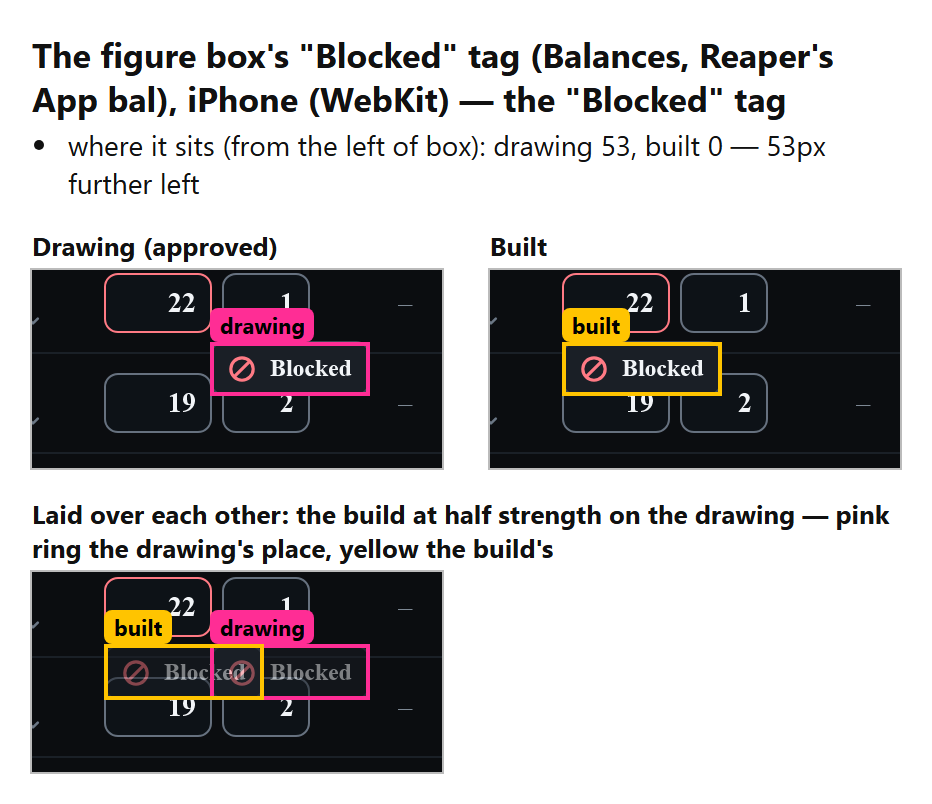
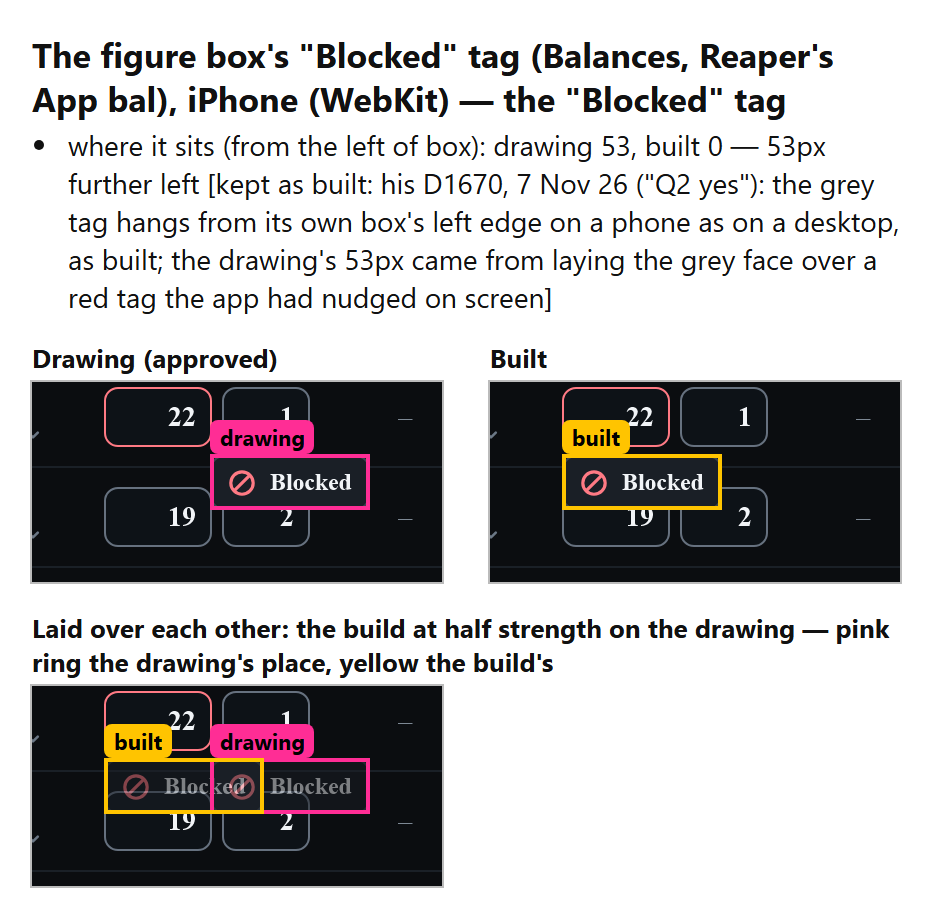
[NOTSAVED-REFUSAL-LOOK] his D1669 and D1670: the reason refusal is grey "Blocked:" too; the phone tag's place kept
Q1 yes (D1669): the schedule's refusal that carries its own reason reads "Blocked: <reason>. Nothing was
saved[ for anyone: take that person off the list, or change it]." in the grey note (ui/inputedit.tsx
reasonRefusal; toastblocked.test.ts). Q2 yes (D1670): the build's tag under its own box is kept; the drawing
check's difference is kept with his ruling and the check is green.

Changed region(s): [[0.0311, 0.0311, 0.9957, 0.995]]

diff --git a/raptor-port/src/ui/toastblocked.test.ts b/raptor-port/src/ui/toastblocked.test.ts
@@ -7,7 +7,7 @@
 import { readFileSync } from 'node:fs'
 import { afterEach, describe, expect, it, vi } from 'vitest'
 import { toast, clearToast, blockedParts, BLOCKED } from './toast'
-import { NOT_SAVED, NOT_YOURS } from './inputedit'
+import { NOT_SAVED, NOT_YOURS, reasonRefusal } from './inputedit'
 
 const note = () => document.getElementById('toastEl') as HTMLElement
 afterEach(() => { clearToast(); note()?.remove(); vi.useRealTimers() })
@@ -29,6 +29,13 @@ describe('the grey "Blocked:" note (D1667, D1668)', () => {
     expect(NOT_SAVED).toBe('Blocked: nothing was kept')
     expect(NOT_YOURS).toBe('Blocked: that change is not yours to make')
     expect(NOT_SAVED.startsWith(`${BLOCKED}:`) && NOT_YOURS.startsWith(`${BLOCKED}:`)).toBe(true)
+  })
+  it('a refusal with its own reason is grey "Blocked:" too, its reason then what it cost, each a sentence (D1669)', () => {
+    expect(reasonRefusal('Ranger is already on leave that day', true)).toBe('Blocked: Ranger is already on leave that day. Nothing was saved for anyone: take that person off the list, or change it.')
+    expect(reasonRefusal('Ranger is already on leave that day.', false)).toBe('Blocked: Ranger is already on leave that day. Nothing was saved.')
+    toast(reasonRefusal('Ranger is already on leave that day', false), 'blocked')
+    expect(note().querySelector('b')?.textContent).toBe('Blocked:')
+    expect(note().dataset.face).toBe('blocked')
   })
   it('a document too big to store keeps its own words, its lead the words before the colon', () => {
     const doc = "Couldn't save that document: your browser storage may be full, so it may not be here after a reload."

diff --git a/raptor-port/src/ui/inputedit.tsx b/raptor-port/src/ui/inputedit.tsx
@@ -1455,6 +1455,9 @@ export function commitEditMedChoices(r: any, draft: any, ask: { clashes: any[]; 
    docs/mock/2026-11-05-notsaved-refusal/img/R5c-schedule-r2grey-*.png); "Not saved" is the failed-save band's alone */
 export const NOT_SAVED = 'Blocked: nothing was kept'
 export const NOT_YOURS = 'Blocked: that change is not yours to make'
+/** a refusal with its own reason (D1669): "Blocked: <reason>. Nothing was saved[ for anyone: take that person off the list, or change it]." */
+export const reasonRefusal = (why: string, several: boolean): string =>
+  `Blocked: ${why.replace(/[.\s]+$/, '')}. Nothing was saved${several ? ' for anyone: take that person off the list, or change it' : ''}.`
 export function saveBatchX(fn: () => boolean | void): { ok: boolean; refused: boolean } {
   const say = HOOKS.toast
   /* held in an object: the door's answer is set inside the save's own callback */
@@ -2086,7 +2089,9 @@ export function commitInput(rec: any | null, draft: any, people: any[], opts?: I
   } finally { HOOKS.toast = say }
   if (!ok) {
     const why = heard[0]
-    if (why) say(`${why} — nothing was saved${next.length > 1 ? ' for anyone: take that person off the list, or change it' : ''}`, 'warn')
+    /* a refusal that carries its own reason is grey "Blocked:" too (owner D1669, 7 Nov 26 — "Q1 yes"; pictured
+       docs/img/handpass/2026-11-06-notsaved-refusal/question/Q1-reason-grey-*.png): the reason, then what it cost, each a sentence */
+    if (why) say(reasonRefusal(why, next.length > 1), 'blocked')
     else say(NOT_YOURS, 'blocked')
     return false
   }

diff --git a/OUTSTANDING.md b/OUTSTANDING.md
@@ -163,7 +163,7 @@ Every item was checked against git and the code on 18 Oct 26. **Re-order this li
 - [QUALS-OUTLINE-RESCROLL] — Quals' outline after "Check his quals" or an Undo is never cleared, so a later change with that row off screen may scroll the page back to it (found by a code read 6 Nov 26, not walked; low, with the next Quals job).
 - [LINE-ICONS-ELSEWHERE-ASK] — a suggestion kept for him (D852): other lists whose lines open only by a tap may want D1512's edit and cross icons too.
 - [QUALS-COL-WAR-GROUP-ASK] — a question kept for him (D994): a member may tick his own Quals columns, so he can put himself in a Leave War group made from one (Management excepted, D1510).
-- [NOTSAVED-REFUSAL-LOOK] — the app's other "not saved" refusal messages get one matching look of their own, apart from the band (D1665, D1667, D1668): BUILT and walked 6 Nov 26 on pull request 639 — waiting for his two answers (Q1 the reason refusal, Q2 the drawing's phone tag), his look and "merge live".
+- [NOTSAVED-REFUSAL-LOOK] — the app's other "not saved" refusal messages get one matching look of their own, apart from the band (D1665, D1667, D1668): BUILT and walked 6 Nov 26 on pull request 639; his answers built 7 Nov 26 (D1669, D1670) — waiting for his iPhone look and "merge live".
 - [WEBKIT-DOCNOTE-SIGNIN] — in the phone test browser a member's sign-in raises "Couldn't save that document…" (older; found by the refusal walk, 6 Nov 26) — check his iPhone never does.
 - [UNDO-POSTING-RECORD] — Undo for adding, archiving and restoring a person and for postings (D350) — his word.
 - [RECALL] — bringing an archived man back fresh into Quals — a future feature, his word.
@@ -1115,7 +1115,7 @@ NOT_SAVED`, its passing note) and a document too big to store (`raptor-port/src/
 matching look of their own, kept apart from the band's, so a refusal never reads as a storage failure. **To do:** picture each
 today, reached through the app's own doors; draw the common look on the real app; put it to him (D1625) before any build.
 **Place:** after the member / guest batch merges, as its own small job.
-**BUILT 6 Nov 26 (pull request 639, `2fa83931d`):** the passing note's `blocked` kind (`raptor-port/src/ui/toast.ts`, `ui/scheduler/28-blocked.css`), the schedule's two catch-alls, the document note, the Leave War's tag (`balances.css .bp-blocked`, `BalancesPage.tsx ErrWords`); walked 27/27 at 1536 and 402; the drawing check 31/32 — evidence `raptor-port/docs/handpass/2026-11-06-notsaved-refusal.md`. **Open, his:** Q1 — the schedule's refusal that carries its own reason ("<reason> — nothing was saved…", `ui/inputedit.tsx`) was not in the drawing and stays amber; recommended: the grey "Blocked: <reason>. Nothing was saved…" (pictures `raptor-port/docs/img/handpass/2026-11-06-notsaved-refusal/question/`). Q2 — on the phone the drawing's tag stands 53px right of its box (the drawing laid over a red tag the app had nudged on screen); recommended: keep the build, under its own box. **ANSWERED 6 Nov 26 — D1668: B, the grey note (the `r2grey` pictures are the design of record); build it next on this branch, `main` brought in first.** **DRAWN 5 Nov 26 on `claude/notsaved-refusal-look`, put to him (Q1) on https://claude.ai/artifact/5iK5a5aEMJuP9WXpEkqYhS** (page and pictures `raptor-port/docs/mock/2026-11-05-notsaved-refusal/`, script `raptor-port/scripts/handpass/nsr1105-today.mjs`). **Today:** two looks — the Leave War's red tag under its box (`.bp-err`), and the app's passing note edged amber, the band's colour. **Proposed (recommended):** one face for both — the Leave War tag's dark red fill, red edge and pale red words, laid out as the band's words are (a drawn sign, the lead in bold, the rest quieter), the sign a drawn "no entry" ring, no button; the words, place, size and timing unchanged. **Readings put to him:** the other refusal notes ("Only a scheduler can…") stay amber; the Leave War's bare "Not saved" gains no reason unless he asks. **Found while drawing:** the figure box and Grades "Not saved" are reached by no control today (a refusal there also puts the war's view back, so the box and its words go — [LW-NIGHT1025-OLDER]); the figure box's passing note only when the box leaves the screen with a figure typed (a lock from another device); the schedule's two only when a window forgets its own refusal. **ROUND 2 (5 Nov 26):** the design skill's check of round 1 (two independent readers; 17 of 28; `raptor-port/docs/mock/2026-11-05-notsaved-refusal/design-check.md`) found the bold "Not saved" copied the band, red already meant "kept but clashes", and the lines read run-on; his answers: the first word is **"Blocked:"** (D1667, after weighing "Refused", already a turned-down bid's word); redrawn with a colon after it and the tag clear of the grade arrow, in two versions side by side — A the red box, B the app's grey note with only the red sign — put to him as Q2 on the same page (recommended: B). **Next:** his answer to Q2, then the build on this branch (the walk sized by the bug-check order).
+**BUILT 6 Nov 26 (pull request 639, `2fa83931d`):** the passing note's `blocked` kind (`raptor-port/src/ui/toast.ts`, `ui/scheduler/28-blocked.css`), the schedule's two catch-alls, the document note, the Leave War's tag (`balances.css .bp-blocked`, `BalancesPage.tsx ErrWords`); walked 27/27 at 1536 and 402; the drawing check 31/32 — evidence `raptor-port/docs/handpass/2026-11-06-notsaved-refusal.md`. **ANSWERED 7 Nov 26 and built: Q1 yes (D1669 — grey "Blocked: <reason>. Nothing was saved…"), Q2 yes (D1670 — the build's tag place kept; the drawing check green).** Were: Q1 — the schedule's refusal that carries its own reason ("<reason> — nothing was saved…", `ui/inputedit.tsx`) was not in the drawing and stays amber; recommended: the grey "Blocked: <reason>. Nothing was saved…" (pictures `raptor-port/docs/img/handpass/2026-11-06-notsaved-refusal/question/`). Q2 — on the phone the drawing's tag stands 53px right of its box (the drawing laid over a red tag the app had nudged on screen); recommended: keep the build, under its own box. **ANSWERED 6 Nov 26 — D1668: B, the grey note (the `r2grey` pictures are the design of record); build it next on this branch, `main` brought in first.** **DRAWN 5 Nov 26 on `claude/notsaved-refusal-look`, put to him (Q1) on https://claude.ai/artifact/5iK5a5aEMJuP9WXpEkqYhS** (page and pictures `raptor-port/docs/mock/2026-11-05-notsaved-refusal/`, script `raptor-port/scripts/handpass/nsr1105-today.mjs`). **Today:** two looks — the Leave War's red tag under its box (`.bp-err`), and the app's passing note edged amber, the band's colour. **Proposed (recommended):** one face for both — the Leave War tag's dark red fill, red edge and pale red words, laid out as the band's words are (a drawn sign, the lead in bold, the rest quieter), the sign a drawn "no entry" ring, no button; the words, place, size and timing unchanged. **Readings put to him:** the other refusal notes ("Only a scheduler can…") stay amber; the Leave War's bare "Not saved" gains no reason unless he asks. **Found while drawing:** the figure box and Grades "Not saved" are reached by no control today (a refusal there also puts the war's view back, so the box and its words go — [LW-NIGHT1025-OLDER]); the figure box's passing note only when the box leaves the screen with a figure typed (a lock from another device); the schedule's two only when a window forgets its own refusal. **ROUND 2 (5 Nov 26):** the design skill's check of round 1 (two independent readers; 17 of 28; `raptor-port/docs/mock/2026-11-05-notsaved-refusal/design-check.md`) found the bold "Not saved" copied the band, red already meant "kept but clashes", and the lines read run-on; his answers: the first word is **"Blocked:"** (D1667, after weighing "Refused", already a turned-down bid's word); redrawn with a colon after it and the tag clear of the grade arrow, in two versions side by side — A the red box, B the app's grey note with only the red sign — put to him as Q2 on the same page (recommended: B). **Next:** his answer to Q2, then the build on this branch (the walk sized by the bug-check order).
 
 ### [WEBKIT-DOCNOTE-SIGNIN] A member's sign-in raises the document note in the phone test browser (found 6 Nov 26, the refusal walk)
 **What:** in Playwright's WebKit (the phone runs of every walk) signing in as the member `us` raises "Couldn't save that document: your browser storage may be full…" at once: the demo's seeded documents cannot be stored by that test browser (`raptor-port/src/storage/docstore.ts`, `boot.ts docBoot`). Older than the grey note: the build before it says the same in amber (`raptor-port/scripts/handpass/nsr1106-docnote-probe.mjs`). **To do:** ask him whether his iPhone ever shows it after signing in (on the look card of pull request 639); if never, it is the test browser's and a walk's phone run may ignore it; if it does, find why his phone cannot store the demo's documents. **Place:** with the next Inputs batch, or at his answer.

diff --git a/DECISIONS.md b/DECISIONS.md
@@ -74,7 +74,7 @@ ruling, or an explicit no. **Not** ordinary task instructions ("run the tests", 
 | Scheduler & amendments | `.claude/rules/decisions/scheduler.md` | when a scheduler, board, engine, amendment or storage file is read | D1710, D1699, D1693, D1648, D1647, D1644, D1621, D1620, D1592, D1589, D1588, D1586, D1577, D1573, D1529, D1528, D1527, D1526, D1522, D1442, D1412, D1383, D1107, D1106, D1099, D1098, D1131, D1130, D1121, D1120, D1119, D1118, D1116, D1115, D1114, D1113, D1112, D1111, D1109, D1085, D1084, D1083, D1081, D1080, D1067, D1066, D1065, D1064, D1063, D1062, D1061, D1060, D1048, D1047, D1046, D1045, D1044, D1043, D1042, D1041, D1040, D1039, D1038, D1037, D1036, D1035, D1034, D1032, D1031, D1030, D1029, D1028, D1027, D1026, D1021, D1020, D1017, D1013, D1012, D1011, D1010, D1009, D997, D995, D958, D957, D955, D950, D949, D947, D945, D940, D938, D936, D933, D932, D931, D929, D928, D925, D901, D877, D860, D845, D844, D842, D841, D840, D839, D838, D837, D836, D834, D833, D831, D830, D828, D825, D824, D815, D809, D807, D806, D800, D797, D796, D776, D769, D778, D767, D762, D760, D759, D757, D756, D755, D753, D751, D748, D747, D743, D742, D740, D739, D737, D736, D735, D734, D733, D731, D717, D714, D713, D711, D710, D706, D703, D702, D686, D682, D716, D668, D665, D663, D661, D660, D645, D644, D642, D641, D640, D637, D636, D634, D605, D603, D600, D599, D598, D597, D594, D562, D561, D558, D555, D554, D553, D551, D550, D548, D546, D544, D537, D535, D532, D531, D530, D529, D527, D526, D525, D524, D523, D522, D521, D520, D519, D518, D517, D516, D514, D513, D512, D511, D510, D509, D507, D506, D505, D504, D503, D502, D501, D500, D498, D497, D488, D482, D481, D479, D478, D475, D472, D471, D469, D454, D452, D451, D450, D356, D355, D367, D363, D362, D361, D360, D346, D345, D344, D340, D339, D338, D337, D279, D278, D277, D276, D275, D274, D272, D271, D270, D263, D212, D189, D188, D187, D186, D185, D184, D183, D179, D178, D177, D176, D175, D174, D172, D171, D170, D169, D168, D167, D119, D118, D117, D116, D114, D113, D111, D110, D109, D107, D105, D103, D102, D101, D100, D99, D98, D97, D96, D95, D94, D93, D92, D91, D161, D77, D66, D65, D51, D50, D47, D45, D44, D41, D40, D39, D38, D37, D36, D33, D27 |
 | The Inputs pages | `.claude/rules/decisions/inputs.md` | when a file of the Inputs list or calendar, the SANS calendar, the Calendar window, or an input's own window or card is read | D1721, D1719, D1708, D1702, D1624, D1623, D1622, D1585, D1583, D1582, D1581, D1578, D1562, D1560, D1413, D1396, D1386, D1385, D1384, D1377, D1376, D1374, D1373, D1372, D1369, D1368, D1367, D1304, D1300, D1298, D1293, D1280, D1179, D1139, D1137, D1125, D1123, D1096, D1095, D1025, D1023, D1022, D999, D996, D977, D968, D967, D965, D963, D961, D960, D959, D953, D952, D948, D927, D920, D919, D917, D916, D910, D909, D908, D900, D897, D893, D879, D861, D854, D851, D849, D848, D795, D792, D786, D777, D773, D771, D770, D768, D763, D732, D729, D728, D727, D725, D724, D723, D722, D721, D720, D719, D712, D709, D707, D705, D704, D701, D698, D697, D696, D695, D694, D693, D692, D691, D689, D688, D687, D685, D684, D683, D681, D675, D671, D664, D659, D658, D657, D656, D655, D653, D652, D651, D650, D649, D648, D647, D646, D639, D638, D635, D633, D632, D631, D630, D629, D628, D627, D626, D624, D622, D621, D620, D619, D618, D617, D584, D583, D582, D581, D577, D576, D574, D572, D570, D569, D547, D364 |
 | OIL | `.claude/rules/decisions/oil.md` | when an OIL, Leave War, placeholder-puck or publishing file is read | D1579, D1094, D1008, D978, D923, D865, D863, D862, D818, D816, D814, D804, D793, D783, D782, D781, D606, D592, D591, D470, D402, D401, D400, D261, D260, D163, D142, D82, D81, D80, D79, D52, D49, D48, D43, D42, D35, D32, D31, D28, D26, D25, D24, D21, D19, D15, D2, D1 |
-| Screen design | `.claude/rules/decisions/design.md` | when a file of screen work is read (the app's code, the mock-ups, the screen rules, the design guide, the walks' pictures, evidence and browser tests) — D1554 | D1707, D1706, D1704, D1703, D1701, D1700, D1680, D1668, D1667, D1666, D1665, D1664, D1663, D1657, D1656, D1655, D1654, D1652, D1650, D1649, D1646, D1645, D1643, D1642, D1641, D1638, D1637, D1636, D1635, D1633, D1632, D1631, D1628, D1627, D1626, D1618, D1617, D1615, D1614, D1611, D1610, D1608, D1607, D1606, D1605, D1591, D1590, D1567, D1523, D1518, D1509, D1138, D1134, D1126, D1127, D1122, D926, D895, D887, D876, D850, D726, D672, D587, D349, D348, D347 |
+| Screen design | `.claude/rules/decisions/design.md` | when a file of screen work is read (the app's code, the mock-ups, the screen rules, the design guide, the walks' pictures, evidence and browser tests) — D1554 | D1670, D1669, D1707, D1706, D1704, D1703, D1701, D1700, D1680, D1668, D1667, D1666, D1665, D1664, D1663, D1657, D1656, D1655, D1654, D1652, D1650, D1649, D1646, D1645, D1643, D1642, D1641, D1638, D1637, D1636, D1635, D1633, D1632, D1631, D1628, D1627, D1626, D1618, D1617, D1615, D1614, D1611, D1610, D1608, D1607, D1606, D1605, D1591, D1590, D1567, D1523, D1518, D1509, D1138, D1134, D1126, D1127, D1122, D926, D895, D887, D876, D850, D726, D672, D587, D349, D348, D347 |
 | The IT flow guide | `.claude/rules/decisions/it-flow-guide.md` | when a file of the IT flow guide is read (its deck folder, its scripts, its plans) | D403, D417, D416, D415, D414, D413, D412, D411, D410 |
 | Archive | `DECISIONS-ARCHIVE.md` | never — SEARCH it before telling him anything is undecided | D156, D133, D125, D155, D154, D153, D152, D150, D88, D83, D71, D61, D55, D34, D139, D146, D112, D115, D181, D202, D104, D230, D273, D336, D342, D341, D366, D182, D354, D180, D324, D467, D542, D543, D567, D540, D539, D538, D536, D534, D533, D528, D508, D496, D494, D492, D484, D483, D480, D476, D391, D173, D145, D85, D30, D559, D556, D549, D515, D565, D190, D586, D589, D604, D613, D612, D616, D666, D680, D708, D788, D789, D791, D803, D798, D817, D794, D799, D752, D779, D784, D826, D829, D843, D873, D896, D898, D914, D915, D934, D962, D135, D609, D614, D615, D746, D749, D758, D764, D810, D855, D856, D857, D858, D859, D864, D875, D880, D894, D911, D939, D956, D571, D573, D575, D578, D579, D580, D585, D654, D690, D699, D715, D718, D730, D772, D907, D912, D913, D918, D946, D951, D964, D966, D267, D330, D3, D18, D20, D46, D780, D210, D217, D291, D301, D305, D930, D164, D108, D468, D477, D545, D552, D557, D563, D593, D643, D662, D700, D738, D741, D744, D745, D750, D866, D889, D943, D944, D954, D368, D990, D1082, D1092, D365, D1156, D1261, D1260, D1207, D1303, D1324, D1325, D1335, D1336, D1337, D1342, D1338, D1402, D1403, D1366, D1414, D1418, D1419, D1425, D1436, D1262, D1133, D1103, D1507, D1558, D1574, D1575, D1576, D1593, D1609, D1612, D1616, D1661, D1305, D1310 |
 

diff --git a/.claude/decisions-full/design.md b/.claude/decisions-full/design.md
@@ -8,6 +8,8 @@ change tail. Newest first; each row keeps the date it was recorded.
 
 | # | Date | His ruling, in his words where short enough | What it means | Where it lives now |
 |---|---|---|---|---|
+| D1670 | 7 Nov 26 | *"Q2 yes"* — to Q2 of the refusals' build (the drawing check's one difference: on a phone the approved drawing's grey "Blocked" tag stands 53px right of its box, because the drawing was laid over a red tag the app had nudged on screen; the build hangs it under its own box; recommended: keep the build) | **The Leave War's grey "Blocked" tag hangs from its own box's left edge on a phone as on a desktop, as built; the approved drawing's phone tag, 53px to the right, is not kept.** The drawing check's difference is kept with this ruling (its spec's accepted list), so the check is green. | `raptor-port/docs/ui-contracts.md` (§The failed-save warning, D1670); `raptor-port/scripts/drawcheck/specs/notsaved-refusal.mjs` (accepted, D1670); filed with [NOTSAVED-REFUSAL-LOOK] |
+| D1669 | 7 Nov 26 | *"Q1 yes"* — to Q1 of the refusals' build (the schedule's refusal that carries its own reason, "<reason> — nothing was saved…", was not in his drawing and stayed amber; recommended: the grey note, pictured today beside the grey) | **The schedule's refusal of a change that carries its own reason takes the grey "Blocked" note too — "Blocked: <reason>. Nothing was saved…" — like every other refusal of one change (D1667, D1668).** As pictured: `raptor-port/docs/img/handpass/2026-11-06-notsaved-refusal/question/Q1-reason-grey-*.png`; the words after the reason stay as they were ("for anyone: take that person off the list, or change it" where the input holds several people), made a sentence. | `raptor-port/docs/ui-contracts.md` (§The failed-save warning, D1669); `raptor-port/src/ui/inputedit.tsx`; filed with [NOTSAVED-REFUSAL-LOOK] |
 | D1707 | 5 Nov 26 | *"all as recommended"* — to round 4 of [UI-CONSISTENCY-LOOK] (https://claude.ai/artifact/Eg1hSt3b17u2oVL2owKLux, version 4), its section "Already ruled — drawn before it is built" ("If any of these looks wrong, say so; otherwise they are built as drawn") | **The one gear (D1509) is drawn in its button's own colour, as every other drawn icon in the app is — white on the Inputs, SANS, Tracker, OIL tracker and board rows, grey on the Leave War as today — the SANS calendar's gear included; the OIL tracker's 📅 becomes Edit Schedule's line calendar (D1508).** Narrows D1509 for the colour, which it left open (the backlog's "the Leave War's gear is cyan" was its button's colour; its drawn gear is grey, measured 182,192,203). Each gear keeps its button's size (D487). | `raptor-port/docs/ui-contracts.md` (§Matching looks, round 4 — D1707); `raptor-port/docs/design-practices.md` (lesson 70 — D1707); filed as [UI-CONSISTENCY-LOOK] |
 | D1706 | 5 Nov 26 | *"should I just follow this design"* — with his iPhone pictures: the board's ⋯ menu as drawn (plain rows) ringed beside the Leave War window's ⋯ (Attach, Other, Post out, Post in, a box each); then *"all as recommended"* — to round 4 of [UI-CONSISTENCY-LOOK] (https://claude.ai/artifact/Eg1hSt3b17u2oVL2owKLux, version 4), question 5 | **Every menu of actions takes the Scheduler Board's look, plain rows in one panel: the Leave War window's ⋯ and the Tracker's File and two pencil menus join the board's and Edit Schedule's; rows stay 38 tall, Grant OIL keeps its green (D1320), and menus of choices — the board's Templates and + Wave — stay as they are.** What each item does is unchanged. The look is the board's own small menu (`18-oil-board.css`), which the bell's list already copies. | `raptor-port/docs/ui-contracts.md` (§Matching looks, round 4 — D1706); filed as [UI-CONSISTENCY-LOOK] |
 | D1704 | 5 Nov 26 | *"all as recommended"* — to round 4 of [UI-CONSISTENCY-LOOK] (https://claude.ai/artifact/Eg1hSt3b17u2oVL2owKLux, version 4), question 3b (A: OIL Earn in words alone; B: a ticket on OIL Earn and the Leave War's OIL tab alike — recommended B) | **OIL has one mark of its own, a ticket — a day off held — on the Scheduler Board's OIL Earn and the Leave War's OIL tab alike, in place of ◧ and the plain clock, so a clock means only History.** Answers D1700's other ways (B). Drawn in the app's line style, in its button's colour. | `raptor-port/docs/ui-contracts.md` (§Matching looks, round 4 — D1704); `raptor-port/docs/design-practices.md` (lesson 92 — D1704); filed as [UI-CONSISTENCY-LOOK] |

diff --git a/raptor-port/docs/ui-contracts.md b/raptor-port/docs/ui-contracts.md
@@ -11761,7 +11761,7 @@ kept in the text (a screen reader hears one sentence) but not drawn. Height, pla
 what did not happen in bold ("Not swapped"), why quieter, then **Answer OIL** solid amber (the agent's reading of "alike";
 it was the app's cyan under D840's drawing) and **OK** quiet — still one line (D840). One body for both: `SaveStatus.tsx
 SplitWords`.
-**One design across the whole app (his direction D1663, 5 Nov 26):** the band wears the strip wherever it is drawn — the places below. The app's other "not saved" words (refusals of one change, not a failed save: a Leave War figure box, the grades window, the schedule's refused change, a document too big to store) take one matching look of their own, apart from the band's — pictured and drawn for him first (D1665, filed as [NOTSAVED-REFUSAL-LOOK]). **Their first words (his D1667, 5 Nov 26):** a refusal of one change opens with the bold word "Blocked:" and the rest after the colon, never "Not saved" (the band's alone) nor "Refused" (a leave bid or access request turned down); a document too big to store keeps its own words. **Their look (his D1668, 6 Nov 26):** the app's plain grey note, only the "no entry" sign in red and "Blocked:" in bold white — never a red box, which means a change kept that clashes; on the Balances page the other refusals ("Type a whole number…") stay red tags beside a grey "Blocked" one, as he was told. Built 6 Nov 26: the passing note's `blocked` kind (`ui/toast.ts`, its lead the words up to the first colon; `ui/scheduler/28-blocked.css`) and the Leave War's tag (`leavewar/ui/balances.css .bp-blocked`, `BalancesPage.tsx ErrWords`); the schedule's refusal that carries its own reason stays amber until he answers (Q1 of [NOTSAVED-REFUSAL-LOOK]).
+**One design across the whole app (his direction D1663, 5 Nov 26):** the band wears the strip wherever it is drawn — the places below. The app's other "not saved" words (refusals of one change, not a failed save: a Leave War figure box, the grades window, the schedule's refused change, a document too big to store) take one matching look of their own, apart from the band's — pictured and drawn for him first (D1665, filed as [NOTSAVED-REFUSAL-LOOK]). **Their first words (his D1667, 5 Nov 26):** a refusal of one change opens with the bold word "Blocked:" and the rest after the colon, never "Not saved" (the band's alone) nor "Refused" (a leave bid or access request turned down); a document too big to store keeps its own words. **Their look (his D1668, 6 Nov 26):** the app's plain grey note, only the "no entry" sign in red and "Blocked:" in bold white — never a red box, which means a change kept that clashes; on the Balances page the other refusals ("Type a whole number…") stay red tags beside a grey "Blocked" one, as he was told. Built 6 Nov 26: the passing note's `blocked` kind (`ui/toast.ts`, its lead the words up to the first colon; `ui/scheduler/28-blocked.css`) and the Leave War's tag (`leavewar/ui/balances.css .bp-blocked`, `BalancesPage.tsx ErrWords`); the schedule's refusal that carries its own reason is grey "Blocked:" too — "Blocked: <reason>. Nothing was saved…" (his D1669, 7 Nov 26; `ui/inputedit.tsx reasonRefusal`); the Leave War's grey tag hangs from its own box's left edge on a phone as on a desktop (his D1670, 7 Nov 26 — the drawing's phone tag, laid over a nudged red tag, not kept).
 **Seen on purpose: `?savefail` (his D1666, 5 Nov 26):** a tab opened with `?savefail` on the address refuses every save (`storage/boot.ts chooseBackend` — reading still works), so the band, its Retry and the pass's "Not sent yet" can be looked at on a real phone; without it nothing changes. Pinned by `storage/boot.test.ts`.
 **Under a failed save the pass says it is not sent (D1664, 5 Nov 26):** on the screen after asking for access, while the band is up, the "Waiting for an admin" mark and the first step read "Not sent yet" in the band's amber; once the save lands the pass's approved look is back by itself.
 **Also where there is no top bar (owner D1657, 5 Nov 26 — `[GUEST-SAVE-WARNING]`):** the sign-in screen and the access

diff --git a/HANDOFF.md b/HANDOFF.md
@@ -21,15 +21,15 @@ the later merge keeps both (D78).
 
 ## Now
 <!-- now:claude/notsaved-refusal-look -->
-### `claude/notsaved-refusal-look` — [NOTSAVED-REFUSAL-LOOK] BUILT and walked (D1668, the grey "Blocked" note); waiting for his two answers, his look and "merge live" — written 6 Nov 26, verify before use
+### `claude/notsaved-refusal-look` — [NOTSAVED-REFUSAL-LOOK] BUILT and walked (D1668, the grey "Blocked" note); his Q1 and Q2 answered and built (D1669, D1670); waiting for his iPhone look and "merge live" — written 7 Nov 26, verify before use
 - **Done:** `main` brought in (202 behind; notes clashes kept both sides); D1668's short line read against its full row by a fresh reader — PASS. Built (`2fa83931d`): the passing note's `blocked` kind (grey note, red drawn "no entry" sign, the lead to the first colon bold white, the rest quieter, read from the left) for the schedule's two catch-alls ("Blocked: nothing was kept", "Blocked: that change is not yours to make"), the document too big to store, and a Leave War box leaving refused; the Leave War's store refusal as the grey "Blocked" tag. WALK: 27/27 at 1536 and 402 (WebKit); drawing check 31/32. Evidence `raptor-port/docs/handpass/2026-11-06-notsaved-refusal.md`.
-- **Waiting on him:** Q1 — the schedule's refusal that carries its own reason stays amber (not in his drawing); recommended grey "Blocked: <reason>. …" (pictures `raptor-port/docs/img/handpass/2026-11-06-notsaved-refusal/question/`). Q2 — the drawing check's one difference: on the phone the drawing's tag stands 53px right of its box (an artefact of the drawing); recommended keep the build. If he says keep, add it to `scripts/drawcheck/specs/notsaved-refusal.mjs` `accepted` with his ruling. Then his iPhone look and "merge live".
+- **His answers, 7 Nov 26 (built):** Q1 yes — D1669, the reason refusal grey "Blocked: <reason>. Nothing was saved…" (`ui/inputedit.tsx reasonRefusal`); Q2 yes — D1670, the tag under its own box kept (the drawing check green, the difference kept). **Waiting on him:** his iPhone look, then "merge live" (D1640: that word means his look is done).
 - **Left on the PC:** `C:
 srb1106` (the drawing's build, a link into the app's packages — delete the link `raptor-port
 ode_modules` before the folder) and `C:
 sr1106` (a half copy, stopped) — both outside the repo, safe to delete.
-- **Numbers:** this chat holds rulings D1667–D1679 (D1667, D1668 used); lessons 83–85 unused; observations 802–809 (802–804 used).
-- **Opening line if handed off:** Continue `claude/notsaved-refusal-look`: `git fetch origin`, `git switch claude/notsaved-refusal-look`, `git branch -u origin/claude/notsaved-refusal-look`, `git pull --ff-only`. Read `HANDOFF.md` (this block) and [NOTSAVED-REFUSAL-LOOK] in `OUTSTANDING.md`; record his answers to Q1 and Q2, act on them, then his "merge live".
+- **Numbers:** this chat holds rulings D1667–D1679 (D1667–D1670 used); lessons 83–85 unused; observations 802–809 (802–804 used).
+- **Opening line if handed off:** Continue `claude/notsaved-refusal-look`: `git fetch origin`, `git switch claude/notsaved-refusal-look`, `git branch -u origin/claude/notsaved-refusal-look`, `git pull --ff-only`. Read `HANDOFF.md` (this block) and [NOTSAVED-REFUSAL-LOOK] in `OUTSTANDING.md`; his answers are built; wait for his "merge live", then carry it through (D1088).
 <!-- /now -->
 <!-- now:claude/lw-cell-combos -->
 ### `claude/lw-cell-combos` — [LW-CELL-COMBOS] MERGED LIVE on his "merge live" (6 Nov 26, pull request 650); this block goes at the next handoff — written 6 Nov 26, verify before use

diff --git a/raptor-port/docs/handpass/2026-11-06-notsaved-refusal.md b/raptor-port/docs/handpass/2026-11-06-notsaved-refusal.md
@@ -86,6 +86,10 @@ drawing laid its grey face over the red tag after the app had nudged that red ta
 draws the grey tag fresh, which needs no nudge. The desktop drawing has it at the box's left edge, as built.
 **Recommended: keep the build** (the tag under its own box, alike on phone and desktop). The check stays red until he rules.
 
+## His answers, 7 Nov 26 — built the same day
+- **Q1 yes (D1669):** the reason refusal is grey too — "Blocked: <reason>. Nothing was saved[ for anyone: take that person off the list, or change it]." (`ui/inputedit.tsx reasonRefusal`). Its words and kind pinned by `toastblocked.test.ts`; the related suites (71 files, 1,930 tests) green; its look is the same note as S1–S6, pictured in `question/Q1-reason-grey-*.png` with these words.
+- **Q2 yes (D1670):** the build's tag place is kept; the drawing check's difference is kept with his ruling — the check re-run: **GREEN, 0 unexplained, 1 kept**.
+
 ## His look (on his iPhone)
 1. Leave War → Balances: nothing to do but look — the grey tag needs a refusal no button reaches; the pictures show it.
 2. Inputs → + Input → Document: if his iPhone's storage is fine, nothing shows (good).
@@ -94,4 +98,4 @@ draws the grey tag fresh, which needs no nudge. The desktop drawing has it at th
 ## Reads
 WALK tier: no code read is required (§5). The short line of D1668 was read against its full row by one fresh reader: PASS.
 
-Walk: host, 27 PASS / 0 FAIL at 1536 + 402 (WebKit), pictures in `docs/img/handpass/2026-11-06-notsaved-refusal/walk/`; drawing check 31/32, the one difference put to him.
+Walk: host, 27 PASS / 0 FAIL at 1536 + 402 (WebKit), pictures in `docs/img/handpass/2026-11-06-notsaved-refusal/walk/`; drawing check green (31/32, the one difference kept on his D1670); Q1's change carried by its tests and the same note's walk.

diff --git a/.claude/rules/decisions/design.md b/.claude/rules/decisions/design.md
@@ -27,6 +27,8 @@ hides a long row). A "— changed by" tail names the later rulings that changed 
 
 | # | Date | The rule |
 |---|---|---|
+| D1670 | 7 Nov 26 | The Leave War's grey "Blocked" tag hangs from its own box's left edge on a phone as on a desktop, as built; the approved drawing's phone tag, 53px to the right, is not kept. |
+| D1669 | 7 Nov 26 | The schedule's refusal of a change that carries its own reason takes the grey "Blocked" note too — "Blocked: <reason>. Nothing was saved…" — like every other refusal of one change (D1667, D1668). |
 | D1707 | 5 Nov 26 | The one gear (D1509) is drawn in its button's own colour, as every other drawn icon in the app is — white on the Inputs, SANS, Tracker, OIL tracker and board rows, grey on the Leave War as today — the SANS calendar's gear included; the OIL tracker's 📅 becomes Edit Schedule's line calendar (D1508). |
 | D1706 | 5 Nov 26 | Every menu of actions takes the Scheduler Board's look, plain rows in one panel: the Leave War window's ⋯ and the Tracker's File and two pencil menus join the board's and Edit Schedule's; rows stay 38 tall, Grant OIL keeps its green (D1320), and menus of choices — the board's Templates and + Wave — stay as they are. |
 | D1704 | 5 Nov 26 | OIL has one mark of its own, a ticket — a day off held — on the Scheduler Board's OIL Earn and the Leave War's OIL tab alike, in place of ◧ and the plain clock, so a clock means only History. |

diff --git a/raptor-port/docs/img/handpass/2026-11-06-notsaved-refusal/drawcheck/report.md b/raptor-port/docs/img/handpass/2026-11-06-notsaved-refusal/drawcheck/report.md
@@ -1,8 +1,8 @@
 # Drawing check — A refusal of one change — "Blocked", the grey note
 
-Build: `the grey note at 2fa83931d` · run 6 Nov 2026, 23:41 · tolerance 2px
+Build: `the grey note at D1669` · run 7 Nov 2026, 00:04 · tolerance 2px
 
-**RED** — 1 difference(s) unexplained, 0 kept as built by his ruling, 0 screen(s) not checked.
+**GREEN** — 0 difference(s) unexplained, 1 kept as built by his ruling, 0 screen(s) not checked.
 
 ## The figure box's "Blocked" tag (Balances, Reaper's App bal), iPhone (WebKit) (`figbox-phone`, 402 × 874 at 2)
 
@@ -11,7 +11,7 @@ Drawing: `scripts/handpass/nsr1105-today.mjs` → `R1-figbox-r2grey-phone.png` (
 | Part | Difference | Drawing | Built | |
 |---|---|---|---|---|
 | the figure box | matches | | | |
-| the "Blocked" tag | where it sits (from the left of box) — 53px further left | 53 | 0 | **unexplained** · [picture](figbox-phone--tag.png) |
+| the "Blocked" tag | where it sits (from the left of box) — 53px further left | 53 | 0 | kept as built: his D1670, 7 Nov 26 ("Q2 yes"): the grey tag hangs from its own box's left edge on a phone as on a desktop, as built; the drawing's 53px came from laying the grey face over a red tag the app had nudged on screen · [picture](figbox-phone--tag.png) |
 | its "no entry" sign | matches | | | |
 | "Blocked" | matches | | | |
 
